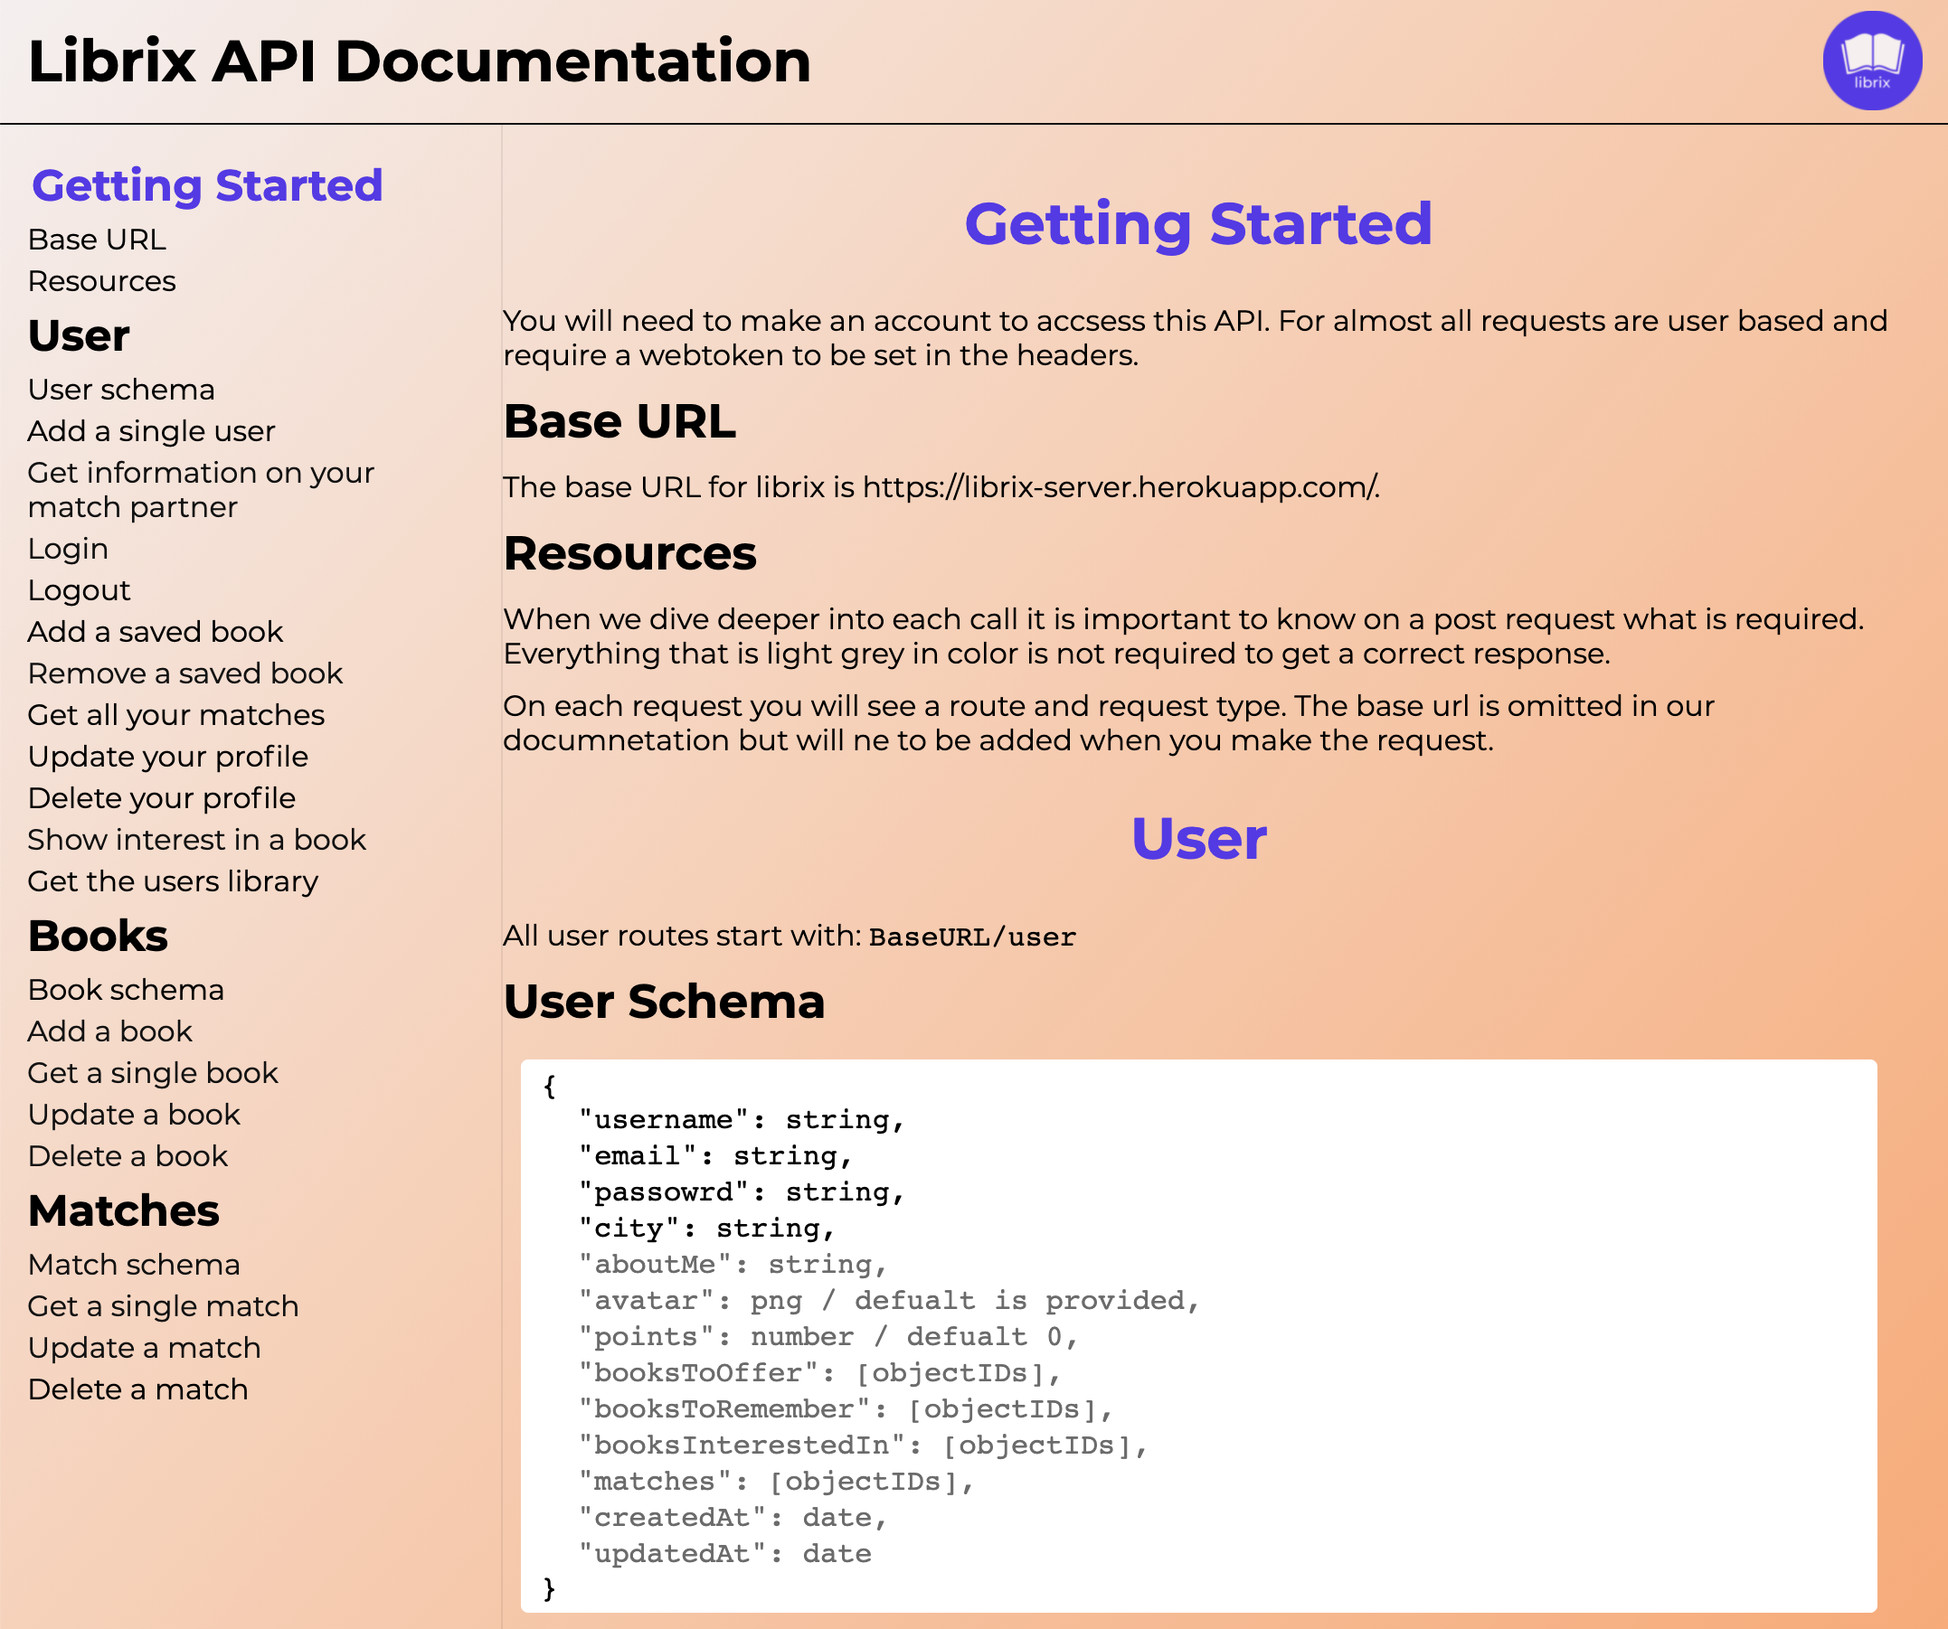
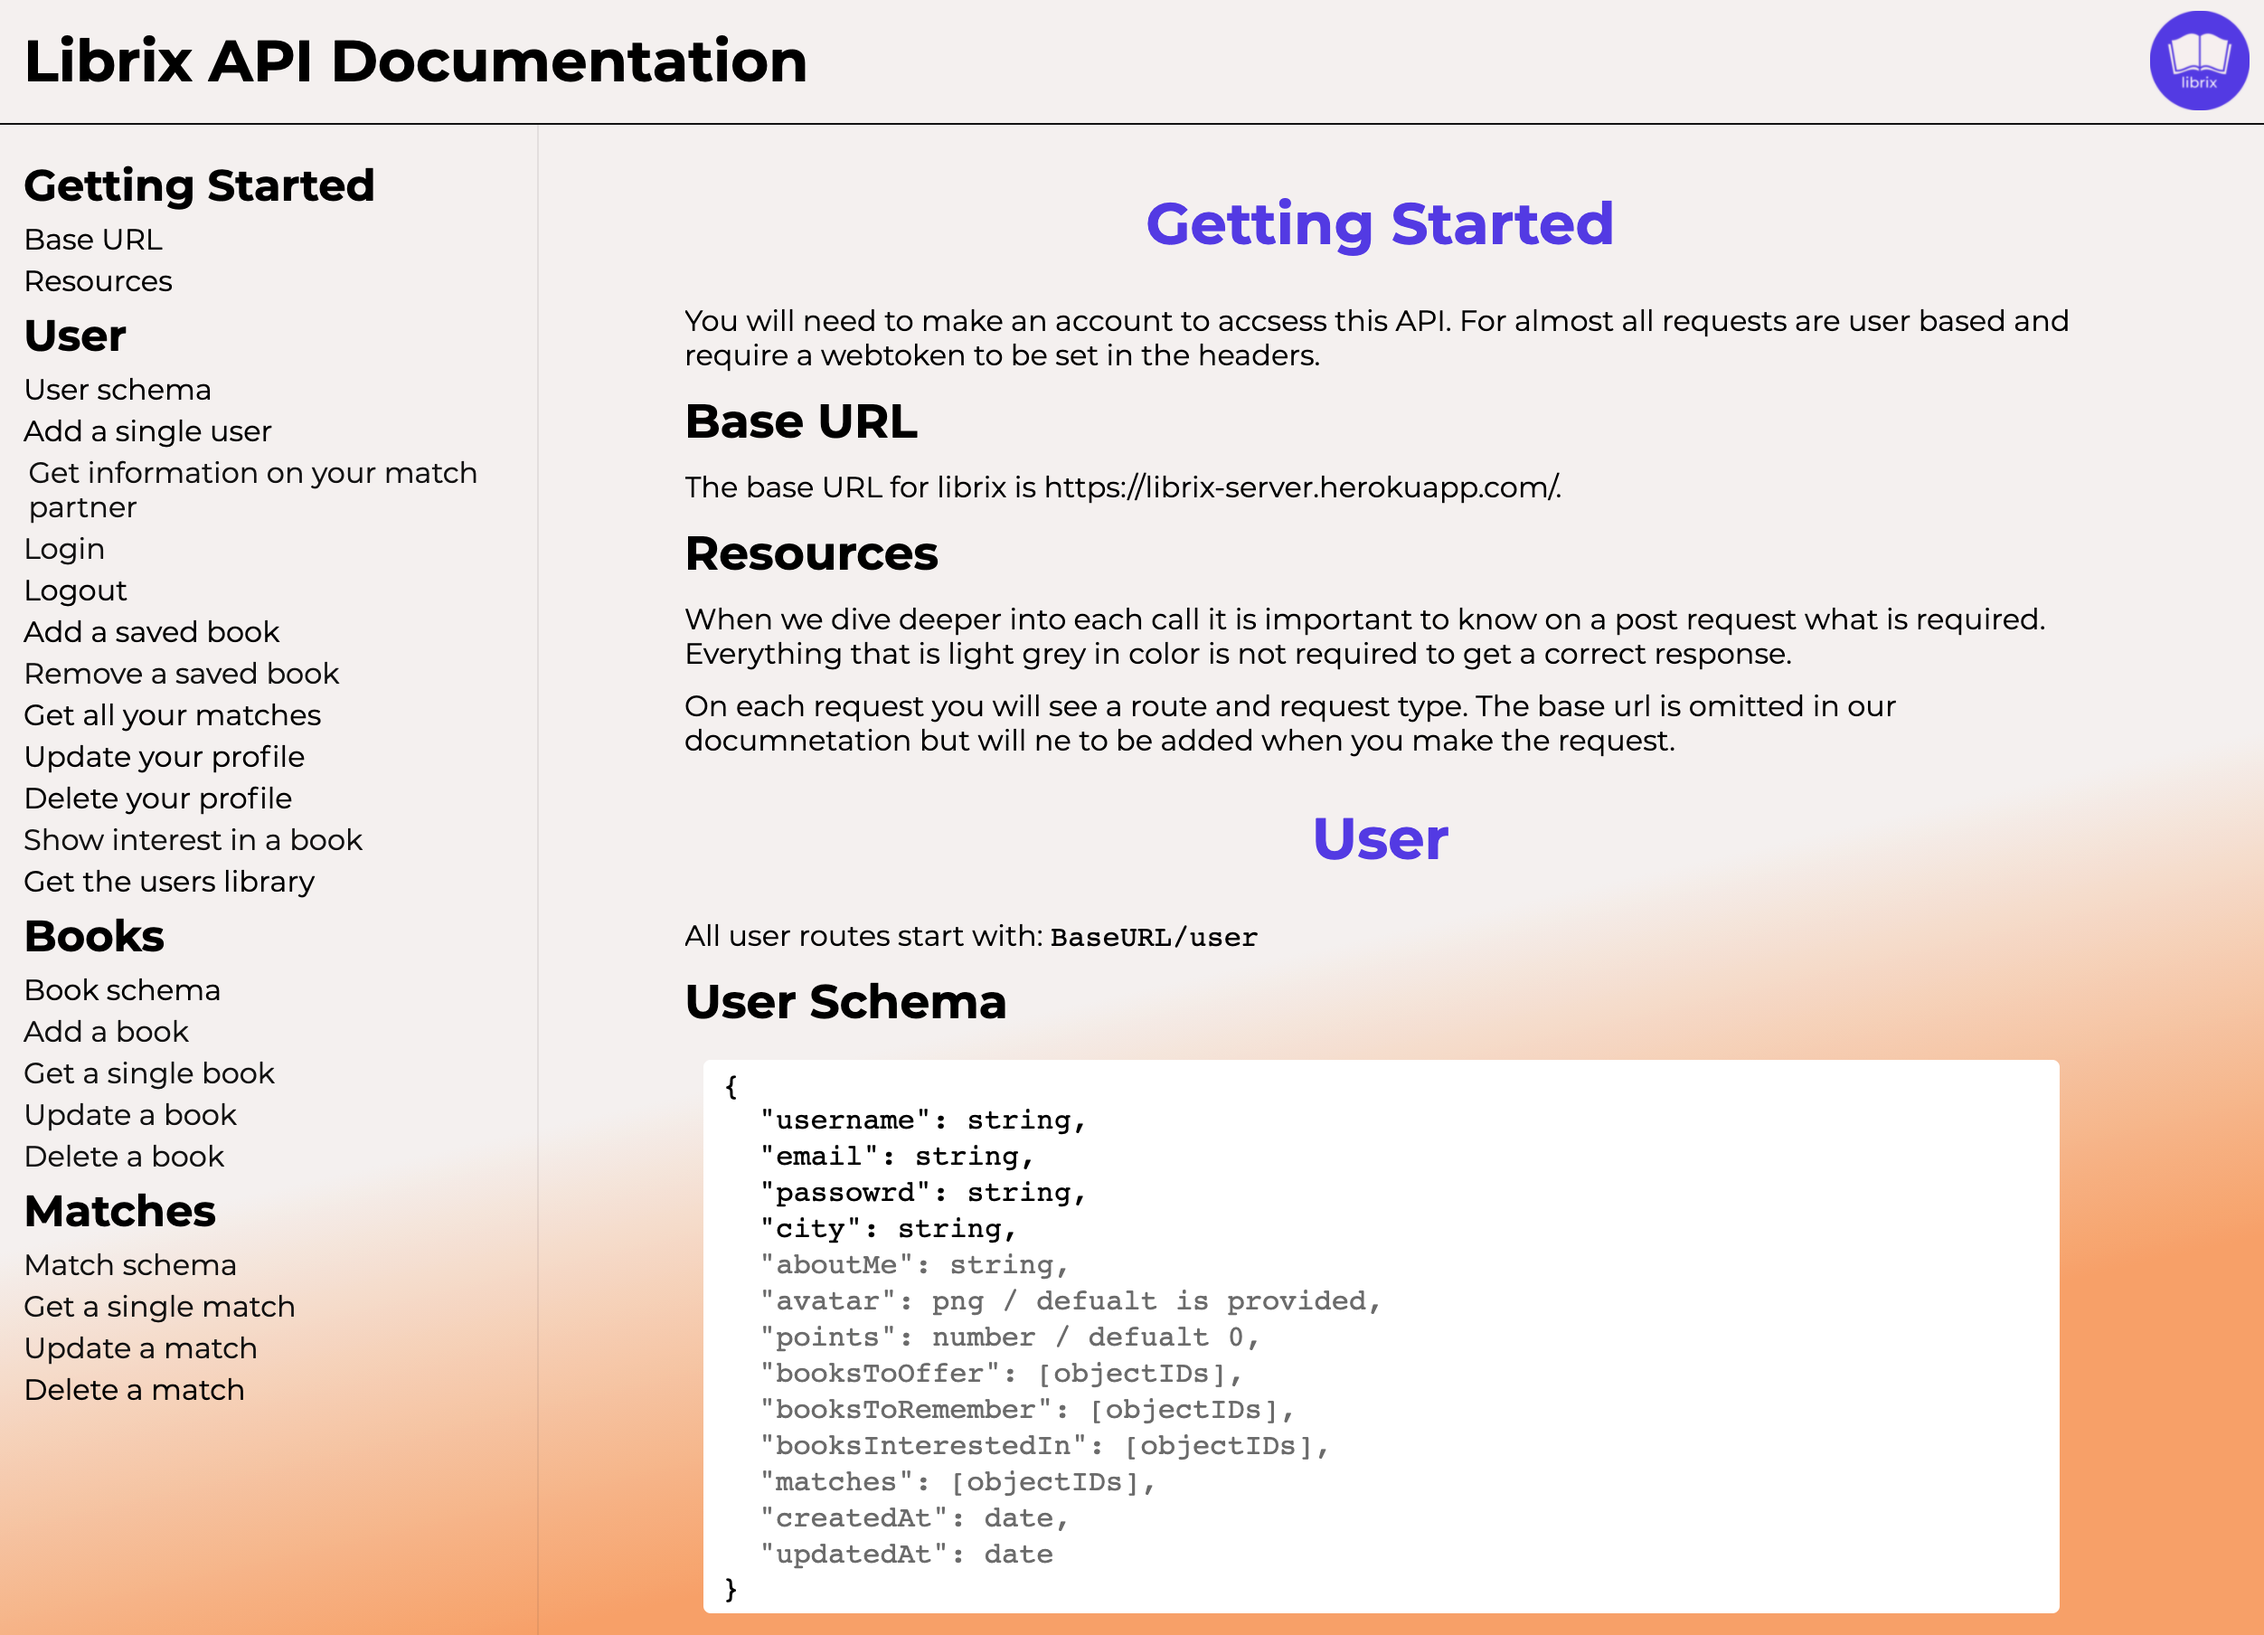
[mod] adpated readme and doc styles

diff --git a/public/styles.css b/public/styles.css
@@ -23,11 +23,7 @@
 }
 
 body {
-  background-image: linear-gradient(
-    to bottom right,
-    var(--neutral-background),
-    var(--secondary-light)
-  );
+  background-image: linear-gradient(167.03deg, #f6f2f1 57.62%, #faa96c 80.79%);
   width: 100vw;
   height: 100vh;
   font-size: 1.6rem;
